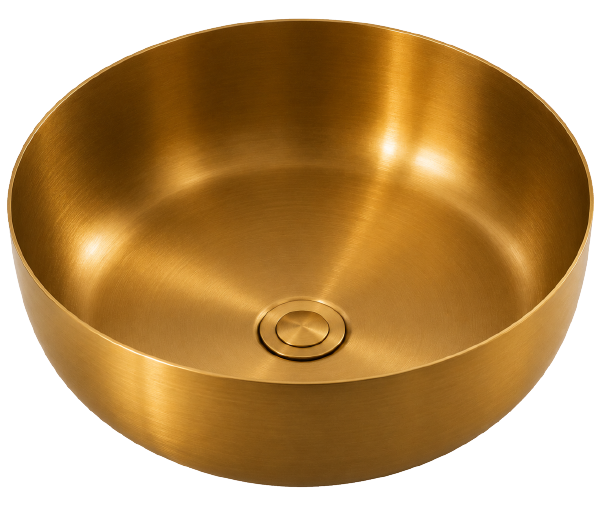
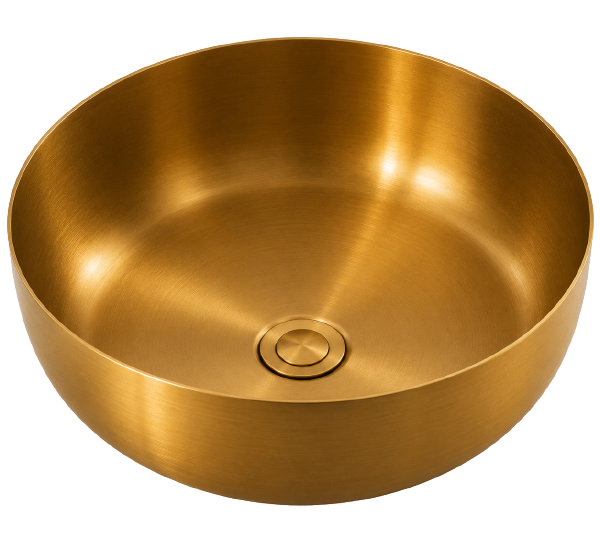
Zingara: los renders correctos, en la home y en el catalogo
Estaban los renders viejos. Ahora usa la tanda del 18/8: 938 y 946 son los
renders sobre negro y la 940 gold salio de la foto oficial, recortada del blanco.

diff --git a/index.html b/index.html
@@ -756,28 +756,28 @@
         </div>
       </a>
       <a class="prod rv" data-cat="bano" href="https://mipileta.com.ar/products/zingara-simple-938g" target="_blank" rel="noopener">
-        <div class="prod-media"><img src="assets/zingara-938G-cut.png" alt="Zíngara 938G" loading="lazy"></div>
+        <div class="prod-media"><img src="assets/cat-zingara-938g.png" alt="Zíngara 938G" loading="lazy"></div>
         <div class="prod-body">
           <b>Zíngara 938G</b>
           <span>Cuadrada · gold PVD</span>
         </div>
       </a>
       <a class="prod rv" data-cat="bano" href="https://mipileta.com.ar/products/zingara-simple-938b" target="_blank" rel="noopener">
-        <div class="prod-media"><img src="assets/zingara-938B-cut.png" alt="Zíngara 938B" loading="lazy"></div>
+        <div class="prod-media"><img src="assets/cat-zingara-938b.png" alt="Zíngara 938B" loading="lazy"></div>
         <div class="prod-body">
           <b>Zíngara 938B</b>
           <span>Cuadrada · black PVD</span>
         </div>
       </a>
       <a class="prod rv" data-cat="bano" href="https://mipileta.com.ar/products/zingara-simple-940g" target="_blank" rel="noopener">
-        <div class="prod-media"><img src="assets/zingara-940G-cut.png" alt="Zíngara 940G" loading="lazy"></div>
+        <div class="prod-media"><img src="assets/cat-zingara-940g.png" alt="Zíngara 940G" loading="lazy"></div>
         <div class="prod-body">
           <b>Zíngara 940G</b>
           <span>Redonda · gold PVD</span>
         </div>
       </a>
       <a class="prod rv" data-cat="bano" href="https://mipileta.com.ar/products/zingara-simple-940b" target="_blank" rel="noopener">
-        <div class="prod-media"><img src="assets/zingara-940B-cut.png" alt="Zíngara 940B" loading="lazy"></div>
+        <div class="prod-media"><img src="assets/cat-zingara-940b.png" alt="Zíngara 940B" loading="lazy"></div>
         <div class="prod-body">
           <b>Zíngara 940B</b>
           <span>Redonda · black PVD</span>
